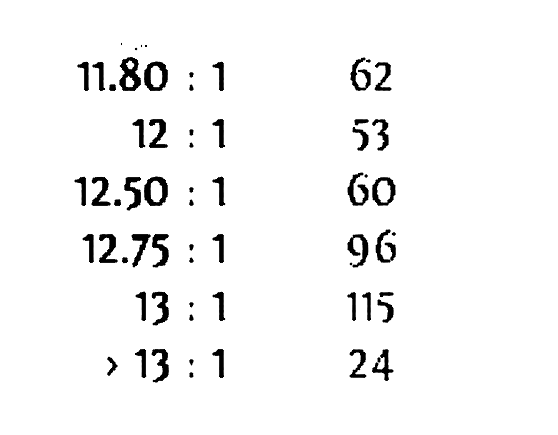
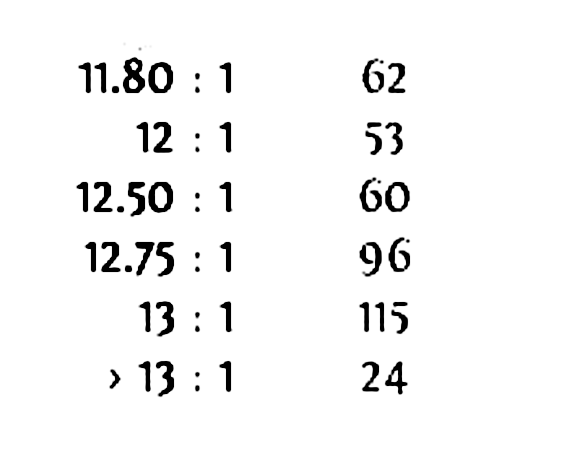
cleaned up preprocessing

diff --git a/gpt.py b/gpt.py
@@ -8,11 +8,11 @@ output_json = "ocr_results.json"
 # Step 1: Gentle cleanup and invert (no hard thresholding)
 subprocess.run([
     "magick", input_path,
-    "-scale", "250%",
+    "-scale", "260%",
     "-colorspace", "Gray",
     "-normalize",
     "-level", "72%,100%,2.0",         # Lower the black cutoff to brighten background
-    "-blur", "0x0.2",                  # Very slight blur to smooth edges
+    "-blur", "0x1.0",                  # Very slight blur to smooth edges
     "-contrast-stretch", "3.8%",
     "-negate",
     "-sharpen", "0x1",                 # Sharpen text edges
@@ -26,9 +26,9 @@ subprocess.run([
 # Step 2: OCR
 config = r"--psm 6 -c tessedit_char_whitelist=0123456789.<: "
 text = pytesseract.image_to_string(Image.open(clean_path), config=config)
-
+print(text)
 # Step 3: Extract only left/right numeric pairs
-matches = re.findall(r"([<]?\s*\d+(?:\.\d+)?)\s*:\s*1\s*(\d+)", text)
+matches = re.findall(r"([<]?\s*\d+(?:\.\d+)?)\s*[:\s]+1\s*(\d+)", text)
 results = [{"left": left.strip().replace(" ", ""), "right": right.strip()} for left, right in matches]
 
 # Step 4: Save and print
